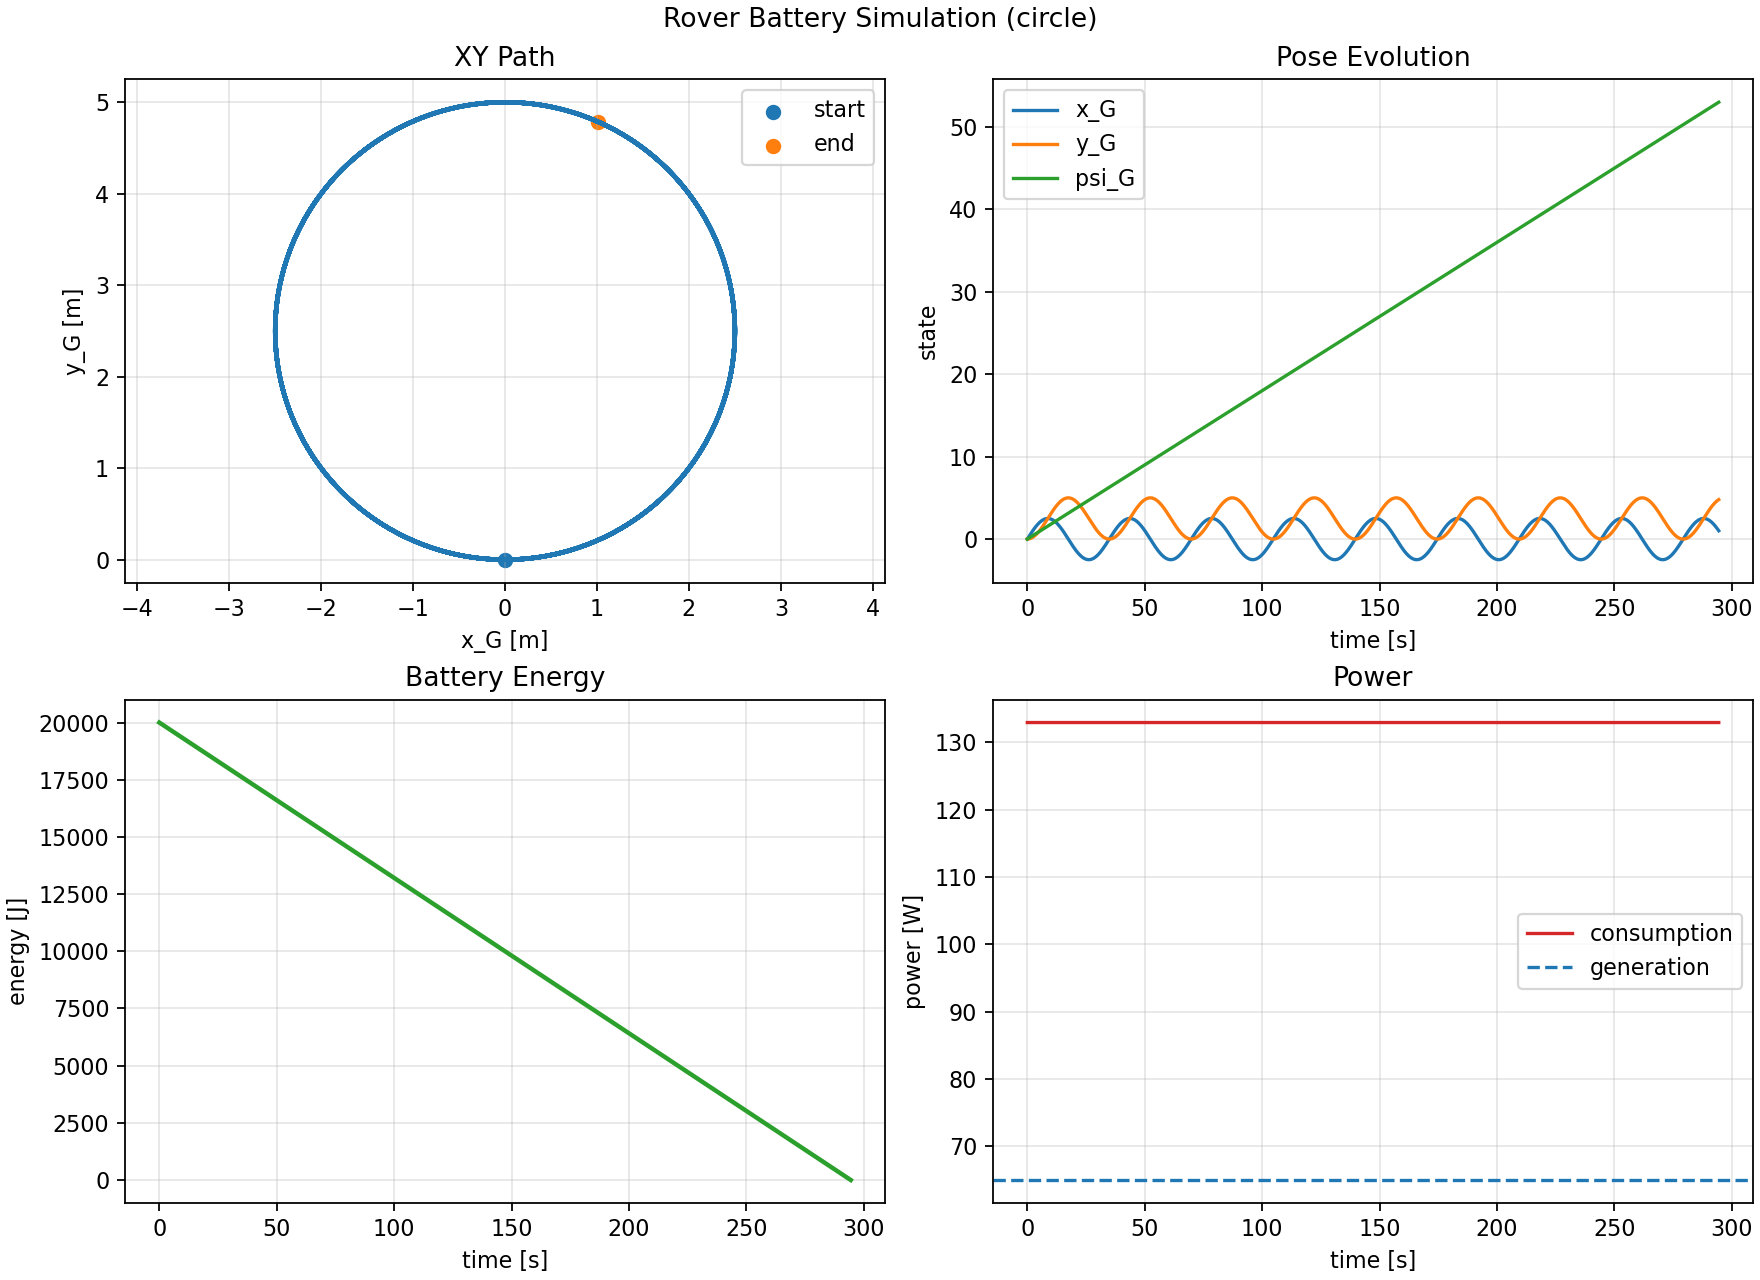
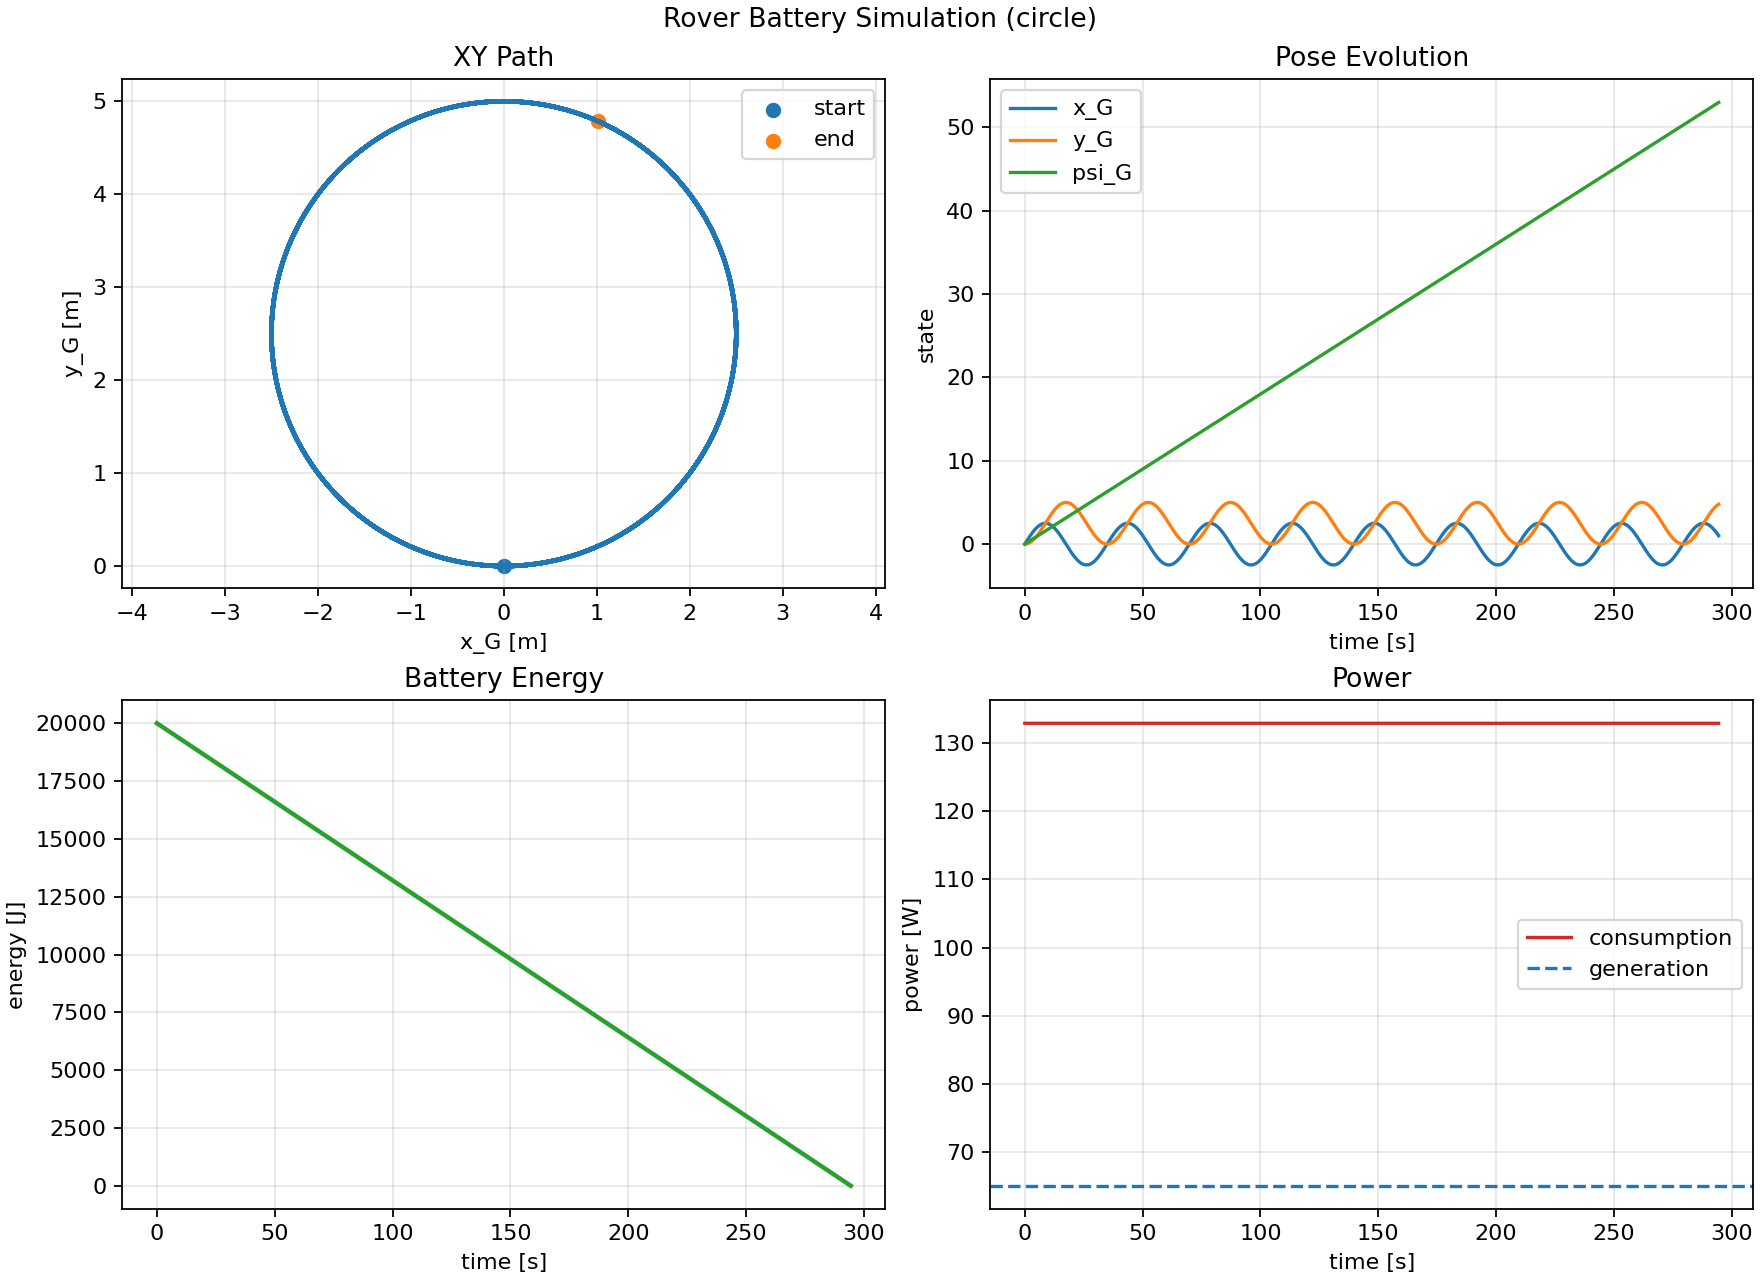
high level scp code done

diff --git a/trajectory_optimization/scp.py b/trajectory_optimization/scp.py
@@ -1,0 +1,156 @@
+import cvxpy as cp
+import numpy as np
+
+from dataclasses import dataclass
+
+from rover_dynamic_model import RoverModel
+
+ArrayLike = float | np.ndarray
+
+# def diff(f, x, u, dt):
+#     # Numerical differentiation
+#     # Central difference method
+#     # f'(x) = [f(xk + dt, uk) - f(xk - dt, uk)] / 2*dt
+#     return ( f((x + dt), u) - f((x - dt), u) ) / (2*dt)
+
+@dataclass
+class SCP:
+    nu_k: ArrayLike = 0.0
+    A_k: ArrayLike = 0.0
+    B_k: ArrayLike = 0.0
+
+    x_bar: ArrayLike = 0.0
+
+    model = RoverModel(
+        battery_charge_j=20_000.0,
+        power_generation_w=65.0,
+        phi=np.deg2rad(4.0),
+        xi=np.deg2rad(3.0),
+    )
+
+    ct: float = 0.0
+    ce: float = 0.0
+
+    v_max: float = 0.0
+    E_min: float = 0.0
+    E_max: float = 0.0
+    P_cons_max: float = 0.0
+
+    rho_x: float = 0.0
+    rho_u: float = 0.0
+
+    high_level_path = []
+
+    beta_grow: float = 1.1
+    beta_shrink: float = 0.5
+    eps_dyn: float = 0.5
+
+    
+    def linearize_nonlinear_dynamics(f,x,u):
+        # x is x_k
+        # u is u_k
+        A_k = ( f(x + self.dt, u) - f(x - self.dt, u) ) / (2*self.dt)
+        B_k = ( f(x, u + self.dt) - f(x, u - self.dt) ) / (2*self.dt)
+
+        f_k = self.model.f(x_bar, u_bar) + A_k @ (x - self.x_bar) + B_k @ (u_k - u_bar)
+        return A_k, B_k, f_k
+
+    def convex_ocp():
+        n_states = 5
+        n_inputs = 2
+        N = 1           # dummy, horizon
+
+        x = cp.Variable((n_states, N + 1))  # x_pos, y_pos, psi (heading), v (forward speed), E (energy)
+        u = cp.Variable((n_inputs, N))      # speed, psi
+
+        # Initial state and cost weights
+
+        x0 = self.high_level_path[0]
+        xN = self.high_level_path[-1]
+
+        constraints = [ x[:, 0] == x0,
+                        x[:, N] == xN,]
+        cost = 0
+
+        # Define cost function and dynamics over the horizon
+        for t in range(N):
+            # cost += cp.sum_squares(x[:, t]) + cp.sum_squares(u[:, t])
+
+            P_cons_k = self.linearize_nonlinear_dynamics(f,x,u)*self.dt + self.nu_k
+            cost += self.ce/N * P_cons_k * self.dt
+
+            constraints += [
+                            x[:, t+1] == self.linearize_nonlinear_dynamics(f,x,u) + self.nu_k,
+                            # P_k \in C_k     # corridor, from high-level path
+                            -u[0] <= 0,
+                            u[0] <= self.v_max,
+                            # accel constraints
+                            -x[4] <= self.E_min,
+                            x[4] <= self.E_max,
+                            P_cons_k <= self.P_cons_max,
+                            cp.norm_inf(x - x_bar) <= self.rho_x,
+                            cp.norm_inf(u - u_bar) <= self.rho_u,
+                            ]
+            
+        cost += [ self.ct*Tf ]# (is Tf == N?)
+
+        objective = cp.Minimize(cost)
+        prob = cp.Problem(objective, constraints)
+        prob.solve()
+
+        u_star = u.value
+        x_star = x.value
+
+        return u_star, x_star
+
+    def scp_algorithm():
+
+        stop_criteria = True
+
+        j = 0
+        x_bar = 0
+        u_star = 0
+
+        while(stop_criteria):
+            # 1. Build Convex Optimal Control Subproblem
+
+            u_star, x_star = self.convex_ocp()
+
+            # 2. Update Rule
+
+            alpha_dyn = max(np.linalg.norm(x_star - F(x_star, u_star), ord=np.inf))
+            # J_nl(x_star, u_star) = ce * sum(P_cons_k) * self.dt + self.ct*tf
+            # J_nl(x_bar, u_bar) = ce * sum(P_cons_k) * self.dt + self.ct*tf
+
+            
+            if alpha_dyn <= self.eps_dyn and self.J_nl_star <= self.J_nl_bar:
+                self.rho_x *= self.beta_grow
+                self.rho_u *= self.beta_grow
+
+                x_bar = x_star
+                u_bar = u_star
+
+            else:
+                self.rho_x *= self.beta_shrink
+                self.rho_u *= self.beta_shrink
+
+            
+            # Stopping Criteria
+            defect_dyn = alpha_dyn <= self.eps_dyn
+            virtual = (max(np.linal.norm(self.nu_k,ord=np.inf))) <= self.eps_nu
+            position = (max(np.linal.norm(self.x_star - x_bar,ord=np.inf))) <= self.eps_nu
+            cost = abs(Jnl (j+1) - Jnl(j)) <= self.eps_J
+            stop_criteria = defect_dyn and virtual and position and cost
+
+
+        return x_star, u_star
+
+def main():
+    scp = SCP()
+
+    # set high level path
+    x_star,u_star = scp.scp_algorithm()
+
+
+if __name__ == "__main__":
+    main()
